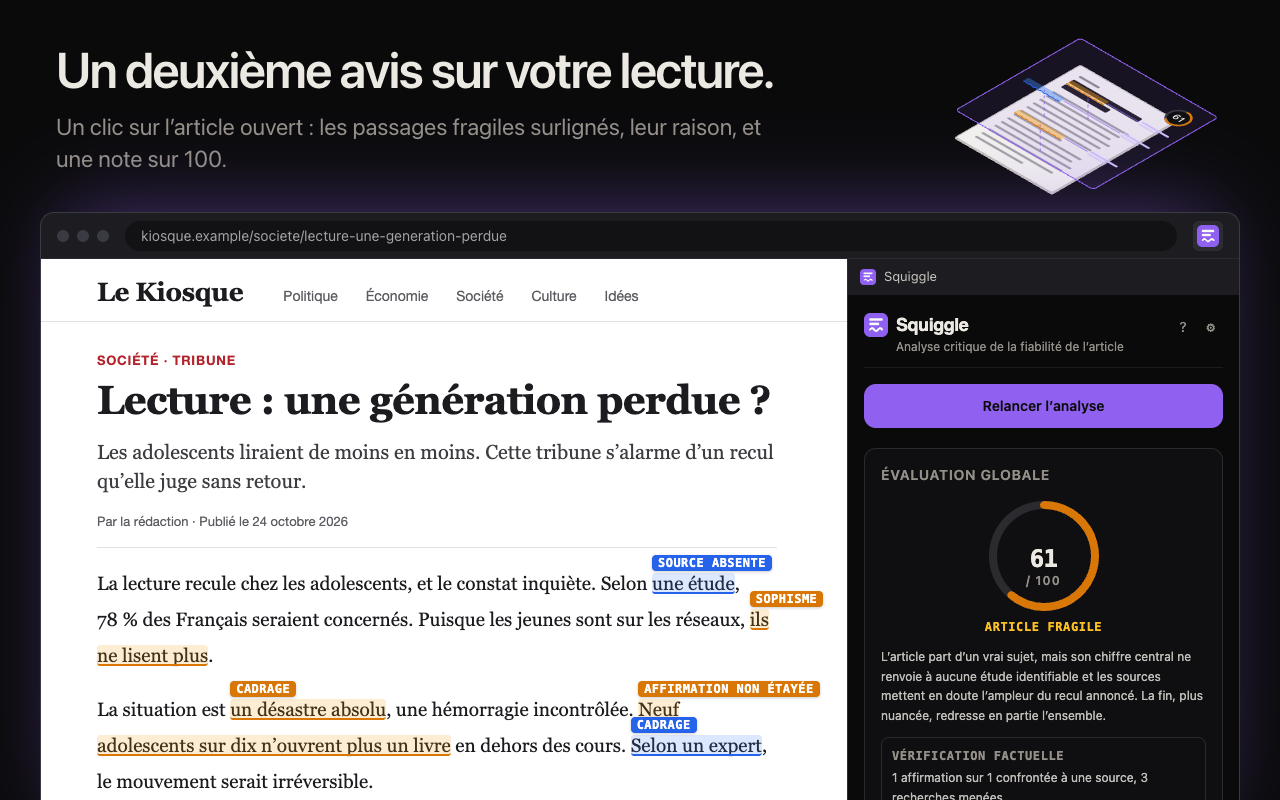
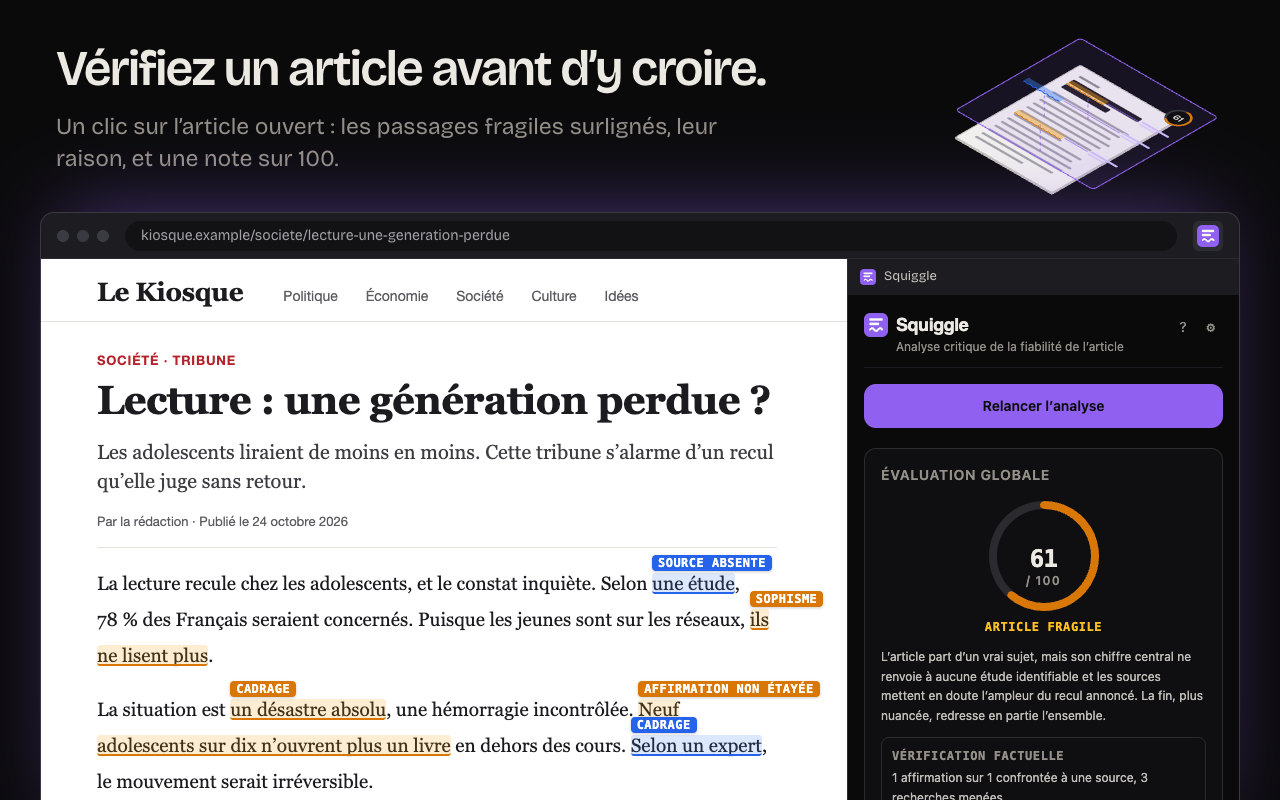
Home: a headline that says what to do, and the analysis as the first action (#247)
The headline becomes "Vérifiez un article avant d'y croire." on the home
page, the page title, the share image, the store listing, the extension's
manifest description and the first store screenshot.

On a computer the first action is now the analysis on the site, which asks
for nothing, with the extension beside it under this browser's own name.
The offer line says "sans compte" on every device, since that first action
holds on all of them. The example stays one link away.

The steps of "Comment ça marche" no longer name the model and where it
runs; the question "Quelle IA, et où ?" still answers both.

The phone install banner no longer covers the bottom of the sign-in page.

Changed region(s): [[0.0312, 0.0625, 0.5938, 0.2188], [0.125, 0.2812, 0.4062, 0.3125], [0.6875, 0.3438, 0.7188, 0.375]]

diff --git a/web/src/pages/Accueil.tsx b/web/src/pages/Accueil.tsx
@@ -5,15 +5,16 @@
  * the same grid for every article, the three ways in, the price and what it pays for,
  * teachers, the data and the open code, every question.
  *
- * The way in it puts first follows the reader's device, and it only draws or names
- * gestures that exist there: the extension on a computer, the site and the app's place
- * in the Share menu on Android, the site and the bookmark on an iPhone. The device is
+ * Its first action is the analysis on the site, which needs nothing installed and no
+ * account. What comes beside it follows the reader's device, and the page only draws or
+ * names gestures that exist there: the extension on a computer, the app's place in the
+ * Share menu on Android, the bookmark on an iPhone. The device is
  * read from `<html data-device>` (set before the first paint, `index.html`), so the
  * page the build renders is right from its first paint; only the browser's own install
  * prompt, which arrives later, changes a button.
  *
- * A reader who has just seen the example, or reached the last question, is offered that
- * same way in again: the page never leaves its reader with nothing to do next.
+ * A reader who has just seen the example, or reached the last question, is offered the
+ * same actions again: the page never leaves its reader with nothing to do next.
  */
 import { useEffect, useRef, useState, type ReactNode } from 'react';
 
@@ -255,8 +256,6 @@ const ON_COMPUTER = '[html[data-device=android]_&]:hidden [html[data-device=ios]
 const ON_PHONE = 'hidden [html[data-device=android]_&]:block [html[data-device=ios]_&]:block';
 const ON_ANDROID = 'hidden [html[data-device=android]_&]:block';
 const ON_IOS = 'hidden [html[data-device=ios]_&]:block';
-/** A phone-only part of a row of buttons: it takes its place in the row, as `contents` does on a computer. */
-const ON_PHONE_INLINE = 'hidden [html[data-device=android]_&]:contents [html[data-device=ios]_&]:contents';
 
 const BODY = 'm-0 text-lg leading-relaxed text-foreground';
 const ACTIONS = 'flex flex-wrap items-center gap-3 max-sm:flex-col max-sm:items-stretch';
@@ -292,58 +291,29 @@ function StoreAction({ className, fallback }: { className: string; fallback: Rea
   );
 }
 
-/** The one primary action of this device: the store of this computer's browser, the analysis on a phone. */
-function MainAction() {
+/** The page's first action, and beside it, on a computer, the extension for this browser if it has a store. */
+function MainActions() {
   return (
     <>
+      <Link to="/analyser" className={`${PRIMARY_BUTTON} max-sm:w-full`}>
+        Analyser un article
+      </Link>
       <span className={`contents ${ON_COMPUTER}`}>
-        <StoreAction
-          className={`${PRIMARY_BUTTON} max-sm:w-full`}
-          fallback={
-            <Link to="/analyser" className={`${PRIMARY_BUTTON} max-sm:w-full`}>
-              Analyser un article
-            </Link>
-          }
-        />
-      </span>
-      <span className={ON_PHONE_INLINE}>
-        <Link to="/analyser" className={`${PRIMARY_BUTTON} max-sm:w-full`}>
-          Analyser un article
-        </Link>
+        <StoreAction className={`${SECONDARY_BUTTON} max-sm:w-full`} fallback={null} />
       </span>
     </>
   );
 }
 
-/** The offer in one line. On a phone the first analysis is on the site, without an account; the extension needs one. */
-function Offer() {
-  return (
-    <>
-      <p className={`mt-2 mb-0 text-lg text-foreground ${ON_COMPUTER}`}>{OFFER}</p>
-      <p className={`mt-2 mb-0 text-lg text-foreground ${ON_PHONE}`}>{OFFER_ON_PHONE}</p>
-    </>
-  );
-}
-
-/** What comes next, once the page has shown its proof: the device's way in, then the site beside a store. */
+/** What comes next, once the page has shown its proof. */
 function TryIt() {
-  const hasStore = installUrlFor(useUserAgent()) !== null;
   return (
     <div className="mt-10">
       <h3 className={H3}>Essayez sur un article que vous lisez</h3>
       <div className={`mt-4 ${ACTIONS}`}>
-        <MainAction />
-        {hasStore ? (
-          <span className={`contents ${ON_COMPUTER}`}>
-            <Link to="/analyser" className={`${SECONDARY_BUTTON} max-sm:w-full`}>
-              Coller un texte sur le site
-            </Link>
-          </span>
-        ) : null}
+        <MainActions />
       </div>
-      <div className="mt-3">
-        <Offer />
-      </div>
+      <p className="mt-3 mb-0 text-lg text-foreground">{OFFER}</p>
     </div>
   );
 }
@@ -460,13 +430,12 @@ const WHERE = `${HOSTED_ANALYSIS.modelLabel}, servie ${inCountry(HOST_COUNTRIES[
 }.`;
 
 /** How a report is made, one drawing a stage, a line each. */
-const STAGES: Array<{ step: Step; title: string; text: string; detail?: string; then?: string }> = [
+const STAGES: Array<{ step: Step; title: string; text: string; then?: string }> = [
   { step: 'article', title: 'Vous donnez l’article', text: 'Collé, partagé ou d’un clic.', then: 'le texte' },
   {
     step: 'lecture',
     title: 'Une IA le relit en entier',
     text: 'Faits, logique, cadrage, sources et langue.',
-    detail: `Avec un compte : ${WHERE}`,
     then: 'les doutes',
   },
   {
@@ -478,7 +447,7 @@ const STAGES: Array<{ step: Step; title: string; text: string; detail?: string; 
   { step: 'rapport', title: 'Vous lisez le rapport', text: 'Passages surlignés, raisons, note sur 100.' },
 ];
 
-/** The question the named model raises, answered from the same constant. */
+/** Which model, and where: for the reader who asks, the steps above leave it out. */
 const WHICH_AI: [string, ReactNode] = [
   'Quelle IA, et où ?',
   <>
@@ -503,8 +472,7 @@ export const CRITERIA: Record<string, [Criterion, string]> = {
   'Soin de la langue': ['langue', 'Langue'],
 };
 /** A single analysis without an account: the page promises a trial, not a daily analysis. */
-const OFFER = `Essai gratuit, sans carte. Puis ${PRICE_MONTHLY} par mois.`;
-const OFFER_ON_PHONE = `Essai gratuit, sans compte ni carte. Puis ${PRICE_MONTHLY} par mois.`;
+const OFFER = `Essai gratuit, sans compte ni carte. Puis ${PRICE_MONTHLY} par mois.`;
 
 /** What the subscription pays for, shown with the stages it pays for. */
 const PAID_FOR: Array<[Step, string]> = [
@@ -517,7 +485,7 @@ export function Accueil() {
     <>
       {/* The landing's first screen, at its proportions; the drawing reads the article again and again. */}
       <div className={`${PAGE} pt-10 pb-16 md:pt-20 md:pb-24`}>
-        <h1 className={`${H1} max-w-[14ch]`}>{TAGLINE}</h1>
+        <h1 className={`${H1} max-w-[19ch]`}>{TAGLINE}</h1>
         <div className="mt-6 grid items-start gap-6 md:mt-10 md:gap-10 lg:grid-cols-[minmax(0,26rem)_minmax(0,1fr)] lg:gap-16">
           <div>
             {/* The one sentence that says what Squiggle is: in full ink, not grey. */}
@@ -526,18 +494,20 @@ export function Accueil() {
               qui tient.
             </p>
             <div className={`mt-8 ${ACTIONS}`}>
-              <MainAction />
-              <a href="#exemple" onClick={() => count('click_example')} className={`${SECONDARY_BUTTON} max-sm:w-full`}>
-                Voir un exemple
-              </a>
+              <MainActions />
+              <span className={ON_PHONE}>
+                <a href="#exemple" onClick={() => count('click_example')} className={`${SECONDARY_BUTTON} w-full`}>
+                  Voir un exemple
+                </a>
+              </span>
             </div>
-            {/* The way in that this device has besides the button, in one line, then the offer. */}
+            {/* What this device has besides the buttons, in one line, then the offer. */}
             <p className={`mt-5 mb-0 text-lg text-foreground ${ON_COMPUTER}`}>
-              Sans extension :{' '}
-              <Link to="/analyser" className={INLINE_LINK}>
-                collez le texte sur le site
-              </Link>
-              , sans compte.
+              Ou d’abord,{' '}
+              <a href="#exemple" onClick={() => count('click_example')} className={INLINE_LINK}>
+                voir un exemple
+              </a>
+              .
             </p>
             <p className={`mt-5 mb-0 text-lg text-foreground ${ON_ANDROID}`}>
               Ou partagez l’article vers{' '}
@@ -553,7 +523,7 @@ export function Accueil() {
               </Link>
               , sur l’article ouvert dans Safari.
             </p>
-            <Offer />
+            <p className="mt-2 mb-0 text-lg text-foreground">{OFFER}</p>
           </div>
 
           <LoopingHero />
@@ -589,7 +559,7 @@ export function Accueil() {
       {/* How a report is made: the four drawings carry it, a line each. */}
       <Section id="comment" title="Comment ça marche" intro="Une à deux minutes, de l’article au rapport.">
         <ol className="m-0 grid list-none gap-0 p-0 lg:grid-cols-4 lg:gap-8">
-          {STAGES.map(({ step, title, text, detail, then }, index) => (
+          {STAGES.map(({ step, title, text, then }, index) => (
             <li
               key={step}
               className="relative grid content-start grid-cols-[7.5rem_minmax(0,1fr)] gap-x-5 lg:grid-cols-1 lg:gap-y-6"
@@ -601,7 +571,6 @@ export function Accueil() {
                 <p className="m-0 font-display text-base font-semibold text-foreground tabular-nums">{index + 1}</p>
                 <h3 className={`${H3} mt-1`}>{title}</h3>
                 <p className={`mt-2 ${BODY}`}>{text}</p>
-                {detail ? <p className="mt-2 mb-0 text-base text-muted">{detail}</p> : null}
               </div>
               {then ? <Then label={then} /> : null}
             </li>

diff --git a/web/tests/Accueil.test.tsx b/web/tests/Accueil.test.tsx
@@ -15,7 +15,7 @@ import { afterEach, describe, expect, it, vi } from 'vitest';
 import { HOSTED_ANALYSIS } from '../../shared/src/hosted/disclosure';
 import { SCORE_DOMAINS } from '../../shared/src/engine/types';
 import { App } from '../src/App';
-import { MEASURE } from '../src/components/Landing';
+import { MEASURE, PRIMARY_BUTTON, SECONDARY_BUTTON } from '../src/components/Landing';
 import { CONTACT_URL } from '../src/components/Layout';
 import { CHROME_URL, EDGE_URL, FIREFOX_URL } from '../src/install';
 import { DOMAINS, VERIFICATION_STATES } from '../src/demo';
@@ -47,8 +47,8 @@ describe('Accueil', () => {
     expect(screen.getByRole('link', { name: 'Se connecter' })).toHaveAttribute('href', '/connexion');
   });
 
-  // A phone has the site first; a computer whose browser has a store, the extension,
-  // with the site one link away; a computer without one (Safari), the site.
+  // The site comes first everywhere; a computer whose browser has a store gets the
+  // extension beside it, named for that browser; a computer without one (Safari), the site alone.
   // The whole page is rendered once per device: several seconds on a loaded machine.
   it('leads with the way in this device has', () => {
     const agent = vi.spyOn(navigator, 'userAgent', 'get');
@@ -56,14 +56,19 @@ describe('Accueil', () => {
     for (const ua of MOBILE) {
       agent.mockReturnValue(ua);
       home();
-      expect(hero().getAllByRole('link', { name: 'Analyser un article' })[0]).toHaveAttribute('href', '/analyser');
+      expect(hero().getByRole('link', { name: 'Analyser un article' })).toHaveAttribute('href', '/analyser');
       expect(hero().queryByRole('link', { name: /^Ajouter à/ })).toBeNull();
       cleanup();
     }
     agent.mockReturnValue('Mozilla/5.0 AppleWebKit/537.36 Chrome/126.0.0.0 Safari/537.36');
     home();
+    expect(hero().getByRole('link', { name: 'Analyser un article' }).className).toContain(PRIMARY_BUTTON);
     expect(hero().getByRole('link', { name: 'Ajouter à Chrome' })).toHaveAttribute('href', CHROME_URL);
-    expect(hero().getByRole('link', { name: 'collez le texte sur le site' })).toHaveAttribute('href', '/analyser');
+    expect(hero().getByRole('link', { name: 'Ajouter à Chrome' }).className).toContain(SECONDARY_BUTTON);
+    cleanup();
+    agent.mockReturnValue('Mozilla/5.0 (X11; Linux x86_64; rv:128.0) Gecko/20100101 Firefox/128.0');
+    home();
+    expect(hero().getByRole('link', { name: 'Ajouter à Firefox' })).toHaveAttribute('href', FIREFOX_URL);
     cleanup();
     agent.mockReturnValue('Mozilla/5.0 (Macintosh; Intel Mac OS X 10_15_7) Safari/605.1.15');
     home();
@@ -95,11 +100,14 @@ describe('Accueil', () => {
 
   // The model is named where it runs, from the disclosure the transparency page uses,
   // so a reader who wonders which AI and where reads both together.
-  it('names the model only with where it runs, and keeps the plumbing off the page', () => {
+  it('names the model only with where it runs, in its own question, and keeps the plumbing off the page', () => {
     const { container } = home();
     const text = container.textContent ?? '';
     const where = `${HOSTED_ANALYSIS.modelLabel}, servie aux Pays-Bas d’abord, sinon aux États-Unis.`;
-    expect(text).toContain(where);
+    // The answer to the question that asks, and nowhere else on the page: the steps say what is done, not by which model.
+    expect(text.split(where)).toHaveLength(2);
+    expect(region('Questions fréquentes').getByText(/^Quelle IA, et où/).closest('details')!.textContent).toContain(where);
+    expect(screen.getByRole('region', { name: 'Comment ça marche' }).textContent).not.toMatch(/Pays-Bas|États-Unis/);
     expect(text.replaceAll(where, '')).not.toContain(HOSTED_ANALYSIS.modelLabel);
     // The own-key option names the providers a reader can bring a key from; outside
     // that list, the gateway hosted analyses go through stays off the page.
@@ -254,7 +262,7 @@ describe('Accueil', () => {
   it('states the offer in one line under the buttons, and no daily analysis', () => {
     const { container } = home();
     const hero = within(screen.getByRole('heading', { level: 1 }).parentElement!);
-    expect(hero.getByText('Essai gratuit, sans carte. Puis 4,99 € par mois.')).toBeInTheDocument();
+    expect(hero.getByText('Essai gratuit, sans compte ni carte. Puis 4,99 € par mois.')).toBeInTheDocument();
     expect(container.textContent).not.toMatch(/par jour/);
   });
 
@@ -308,22 +316,22 @@ describe('Accueil', () => {
     expect(pricing.getByText(/^Pour essayer : une analyse sans compte, puis 3 analyses offertes avec un compte/)).toBeInTheDocument();
   });
 
-  // Whoever opened the example, or reached the last question, is offered the device's way in.
-  it('leads from the example and from the questions to the device’s way in', () => {
+  // Whoever opened the example, or reached the last question, is offered the same actions as the hero.
+  it('leads from the example and from the questions to the analysis, and the extension beside it', () => {
     const agent = vi.spyOn(navigator, 'userAgent', 'get');
     const nextStep = (name: RegExp) => within(region2(name).getByRole('heading', { name: 'Essayez sur un article que vous lisez' }).parentElement!);
     const region2 = (name: RegExp) => within(screen.getByRole('region', { name }));
     agent.mockReturnValue('Mozilla/5.0 AppleWebKit/537.36 Chrome/126.0.0.0 Safari/537.36');
     home();
     for (const name of [/un passage surligné/, /Questions fréquentes/]) {
+      expect(nextStep(name).getByRole('link', { name: 'Analyser un article' }).className).toContain(PRIMARY_BUTTON);
       expect(nextStep(name).getByRole('link', { name: 'Ajouter à Chrome' })).toHaveAttribute('href', CHROME_URL);
-      expect(nextStep(name).getByRole('link', { name: 'Coller un texte sur le site' })).toHaveAttribute('href', '/analyser');
     }
     cleanup();
     agent.mockReturnValue(MOBILE[0]);
     home();
     expect(nextStep(/un passage surligné/).queryByRole('link', { name: /^Ajouter à/ })).toBeNull();
-    expect(nextStep(/un passage surligné/).getAllByRole('link', { name: 'Analyser un article' })[0]).toHaveAttribute('href', '/analyser');
+    expect(nextStep(/un passage surligné/).getByRole('link', { name: 'Analyser un article' })).toHaveAttribute('href', '/analyser');
     expect(nextStep(/un passage surligné/).getByText('Essai gratuit, sans compte ni carte. Puis 4,99 € par mois.')).toBeInTheDocument();
     agent.mockRestore();
   }, 30_000);
@@ -447,11 +455,13 @@ describe('Accueil', () => {
 
   it('keeps the example one tap away, and the analysis the hero’s one primary action', () => {
     home();
+    // A button on a phone, a line under the buttons on a computer: one is shown at a time.
     expect(screen.getByRole('link', { name: 'Voir un exemple' })).toHaveAttribute('href', '#exemple');
+    expect(screen.getByRole('link', { name: 'voir un exemple' })).toHaveAttribute('href', '#exemple');
     const hero = screen.getByRole('heading', { level: 1 }).parentElement!;
-    // One primary a device: the computer's (here without a store) and the phone's, shown one at a time.
+    // One primary, the same on every device.
     const primaries = [...hero.querySelectorAll('a, button')].filter((el) => el.className.includes('bg-accent '));
-    expect(primaries.map((el) => el.textContent)).toEqual(['Analyser un article', 'Analyser un article']);
+    expect(primaries.map((el) => el.textContent)).toEqual(['Analyser un article']);
   });
 
   it('walks through the passages while left alone, and stops under the pointer', () => {

diff --git a/web/src/App.tsx b/web/src/App.tsx
@@ -182,8 +182,9 @@ export function App({ path: at }: { path?: string }) {
   // Inside the app, the header leads to the reader's account rather than to sign-in.
   const inApp = route === '/analyser' || route === '/compte' || route === '/account' || route === '/pont';
   // The home offers the app and the bookmark where each applies: no second invitation over it.
-  // The analysis offers the app under a report, not over the form a first visit is filling in.
-  const ownInvitation = route === '/' || route === '/tarifs' || route === '/analyser';
+  // The analysis offers the app under a report, not over the form a first visit is filling in,
+  // and the sign-in keeps the bottom of a phone's screen for its own form.
+  const ownInvitation = route === '/' || route === '/tarifs' || route === '/analyser' || route === '/connexion';
   return (
     <Layout account={inApp ? 'Mon compte' : 'Se connecter'} installHint={!ownInvitation}>
       {page}

diff --git a/web/tests/InstallHint.test.tsx b/web/tests/InstallHint.test.tsx
@@ -47,6 +47,17 @@ afterEach(async () => {
 });
 
 describe('InstallHint', () => {
+  // A first visit is filling in a form on these two: nothing lies over the bottom of the screen.
+  it('stays off the analysis form and the sign-in', () => {
+    vi.spyOn(navigator, 'userAgent', 'get').mockReturnValue(IPHONE);
+    for (const path of ['/analyser', '/connexion']) {
+      window.history.pushState({}, '', path);
+      render(<App />);
+      expect(hint(), path).toBeNull();
+      cleanup();
+    }
+  });
+
   it('shows iOS Safari where its install lives, over the bottom of the screen', () => {
     at(IPHONE);
     const banner = within(hint()!);

diff --git a/web/tests/firstPaint.test.ts b/web/tests/firstPaint.test.ts
@@ -17,7 +17,7 @@ const BEACON = 'https://static.cloudflareinsights.com/beacon.min.js';
 const STARTED = page.includes(BEACON) ? 3 : 2;
 
 /** Runs the page's loader against a browser whose paint, timers and DOM the test drives. */
-function boot({ paintTiming = true, rootText = 'Un deuxième avis sur votre lecture.' } = {}) {
+function boot({ paintTiming = true, rootText = 'Vérifiez un article avant d’y croire.' } = {}) {
   const fetched: string[] = [];
   const timers: Array<{ at: number; run: () => void }> = [];
   const listeners: Record<string, () => void> = {};

diff --git a/web/src/offer.ts b/web/src/offer.ts
@@ -23,7 +23,7 @@ export const OWN_KEY_TOP_MODEL_MONTHLY = 'environ 25 à 30 € par mois';
  * the page title and the link preview, and a test keeps the two in step; `og.png` is a
  * rendering of the hero and is captured again when it changes.
  */
-export const TAGLINE = 'Un deuxième avis sur votre lecture.';
+export const TAGLINE = 'Vérifiez un article avant d’y croire.';
 
 export const GITHUB_URL = 'https://github.com/TheGlitching/Squiggle';
 

diff --git a/store/render/frame.tsx b/store/render/frame.tsx
@@ -29,7 +29,7 @@ interface Shot {
 /** One idea per image, in the order the listing tells the story. */
 const SHOTS: Record<string, Shot> = {
   'shot-1': {
-    title: 'Un deuxième avis sur votre lecture.',
+    title: 'Vérifiez un article avant d’y croire.',
     lead: 'Un clic sur l’article ouvert : les passages fragiles surlignés, leur raison, et une note sur 100.',
     figure: <HeroFigure pins={false} />,
     panel: 'state=report',

diff --git a/store/listing.fr.md b/store/listing.fr.md
@@ -27,11 +27,11 @@ recherche dans la boutique : la seconde moitié porte les mots qu’un lecteur t
 **Chrome Web Store** (132 caractères au plus ; c’est la `description` des manifestes, et
 `tests/packaging.test.ts` vérifie la limite) :
 
-Vérifiez un article avant d’y croire. Passages fragiles surlignés, raisons, note sur 100. Gratuit avec votre clé d’API.
+Vérifiez un article avant d’y croire : passages fragiles surlignés, raisons, note sur 100. Gratuit avec votre clé d’API.
 
 **AMO** (250 caractères au plus ; champ « Résumé » de la fiche) :
 
-Un deuxième avis sur l’article de presse que vous lisez : passages fragiles surlignés, raisons, note sur 100. Gratuit avec votre propre clé d’API (votre fournisseur d’IA facture l’usage), ou avec un compte Squiggle, sans clé : 3 analyses offertes.
+Vérifiez un article de presse avant d’y croire : passages fragiles surlignés, raisons, note sur 100. Gratuit avec votre propre clé d’API (votre fournisseur d’IA facture l’usage), ou avec un compte Squiggle, sans clé : 3 analyses offertes.
 
 ## Catégorie
 
@@ -46,7 +46,7 @@ Le même texte dans les deux boutiques. Le Chrome Web Store n’affiche que du t
 les puces sont des caractères, pas du balisage.
 
 ```
-Un deuxième avis sur l’article que vous lisez.
+Vérifiez un article avant d’y croire.
 
 Un clic sur l’icône, et Squiggle relit l’article ouvert. Il surligne les passages fragiles, dit pourquoi, et montre aussi ce qui est solide. Le rapport s’ouvre à côté de l’article, avec une note sur 100.
 
@@ -113,7 +113,7 @@ aucun lecteur que l’interface n’exclut pas déjà.
 
 AMO affiche une légende sous chaque capture : reprendre le titre de l’image.
 
-1. **Un deuxième avis sur votre lecture.** Le score, les passages surlignés, la synthèse.
+1. **Vérifiez un article avant d’y croire.** Le score, les passages surlignés, la synthèse.
 2. **Chaque constat pointe sa phrase.** Un constat choisi, son passage mis en évidence.
 3. **Les chiffres confrontés aux sources.** Le chiffre mis en doute et la source lue.
 4. **Cinq questions pour chaque article.** Les notes par domaine, l’une ouverte.
